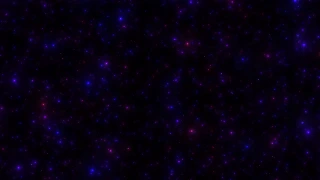
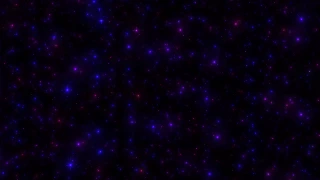
perf(nebula): skip dead per-cell color, drop one starfield layer
Nebula was the catalog's heaviest shader (~23ms at 1920 on the UHD 770).
- skip the per-cell sin(vec3) color when the star is 0 (output-identical;
  Star() returns 0 for the empty-sky majority of the 72 cells/pixel): ~25%
- STARFIELD_LAYERS_COUNT 8 -> 7 (dimByDensity rebalances, dense look intact;
  6 was visibly sparser): ~34% combined, 23 -> 15.6ms

Closes #74

diff --git a/android/src/main/java/com/simiancraft/kaleidoscope/gpu/ShadersGenerated.kt b/android/src/main/java/com/simiancraft/kaleidoscope/gpu/ShadersGenerated.kt
@@ -733,7 +733,7 @@ const float MAX_DIVIDE = 0.01;
 // loop has a fixed integer bound (cross-compile-safe; no float loop counter).
 // 8 (was 12) for low-end-mobile cost (issue #39); the work is linear in the
 // count and dimByDensity rebalances per-star brightness automatically.
-const int STARFIELD_LAYERS_COUNT = 8;
+const int STARFIELD_LAYERS_COUNT = 7;
 
 mat2 Rotate(float angle) {
   float s = sin(angle);
@@ -801,6 +801,12 @@ vec3 StarFieldLayer(vec2 uv, float rotAngle) {
       float size = fract(randomN * 1356.33);
       float flareSwitch = smoothstep(0.9, 1.0, size);
       float star = Star(randomPosition, flareSwitch, rotAngle, randomN);
+      // The per-cell color below is multiplied by `star` at the end, so for any
+      // cell whose star is 0 (Star() returns exactly 0 for d >= 1.0, i.e. the
+      // empty-sky majority of the 8x9 = 72 cells/pixel) the whole term is 0.
+      // Skipping the sin(vec3) color work for those cells is output-identical and
+      // is the bulk of the win (issue #74).
+      if (star <= 0.0) continue;
 
       // fract trick: random colors
       float randomStarColorSeed = fract(randomN * 2150.0) * (3.0 * PI) * deltaTimeTwinkle;

diff --git a/web-driver/shaders.generated.ts b/web-driver/shaders.generated.ts
@@ -714,7 +714,7 @@ const float MAX_DIVIDE = 0.01;
 // loop has a fixed integer bound (cross-compile-safe; no float loop counter).
 // 8 (was 12) for low-end-mobile cost (issue #39); the work is linear in the
 // count and dimByDensity rebalances per-star brightness automatically.
-const int STARFIELD_LAYERS_COUNT = 8;
+const int STARFIELD_LAYERS_COUNT = 7;
 
 mat2 Rotate(float angle) {
   float s = sin(angle);
@@ -782,6 +782,12 @@ vec3 StarFieldLayer(vec2 uv, float rotAngle) {
       float size = fract(randomN * 1356.33);
       float flareSwitch = smoothstep(0.9, 1.0, size);
       float star = Star(randomPosition, flareSwitch, rotAngle, randomN);
+      // The per-cell color below is multiplied by \`star\` at the end, so for any
+      // cell whose star is 0 (Star() returns exactly 0 for d >= 1.0, i.e. the
+      // empty-sky majority of the 8x9 = 72 cells/pixel) the whole term is 0.
+      // Skipping the sin(vec3) color work for those cells is output-identical and
+      // is the bulk of the win (issue #74).
+      if (star <= 0.0) continue;
 
       // fract trick: random colors
       float randomStarColorSeed = fract(randomN * 2150.0) * (3.0 * PI) * deltaTimeTwinkle;